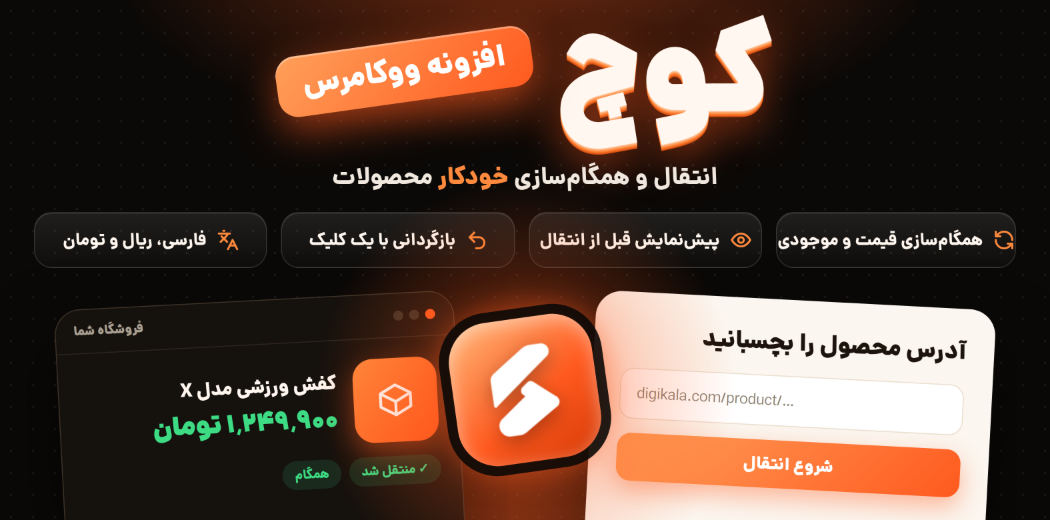
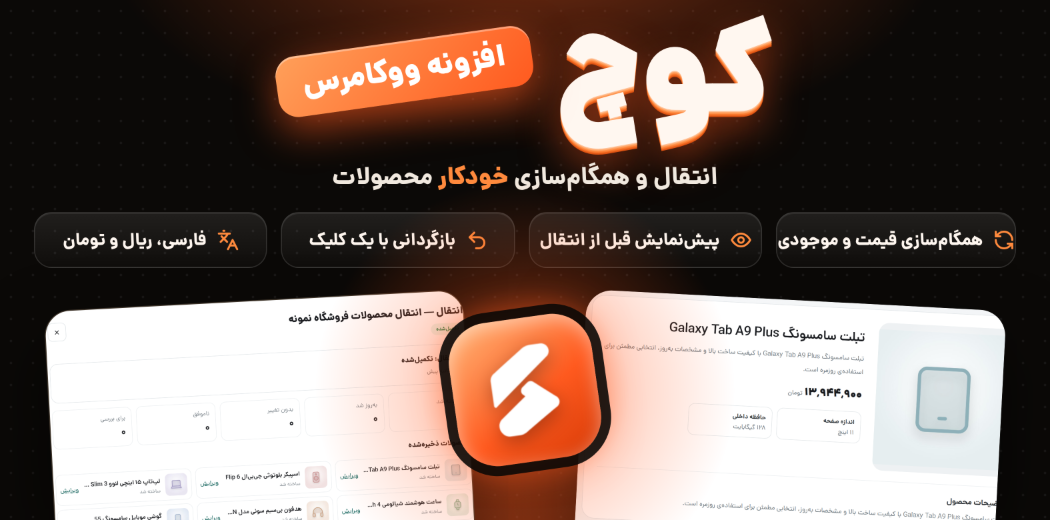
Kooch RTL fixes: infographic and cover built from real plugin screenshots
Claude-Session: https://claude.ai/code/session_01HjGiyHhZHcoV6ExRpRRqKD

diff --git a/kooch-showcase/infographic.html b/kooch-showcase/infographic.html
@@ -1,0 +1,39 @@
+<!doctype html><html lang="fa" dir="rtl"><head><meta charset="utf-8"><title>کوچ | اینفوگرافیک</title><style>
+@font-face{font-family:Dana;src:url(DanaVF.ttf);font-weight:100 1000}
+*{box-sizing:border-box;margin:0;padding:0}
+body{background:#0e0b08;font-family:Dana,Tahoma,sans-serif;color:#f6f1ea}
+.i{width:1em;height:1em;fill:none;stroke:currentColor;stroke-width:2;stroke-linecap:round;stroke-linejoin:round}
+.w{width:960px;background:radial-gradient(700px 400px at 80% 0,rgba(255,90,31,.35),transparent 70%),radial-gradient(rgba(255,255,255,.05) 1.2px,transparent 1.4px) 0 0/24px 24px,#0e0b08;padding:56px 50px 60px}
+.top{text-align:center;margin-bottom:46px}
+.top img{height:72px}
+.top h1{font-size:44px;font-weight:950;margin-top:12px}
+.top h1 b{color:#ff8a3d}
+.top p{font-size:20px;color:#b9ae9f;margin-top:8px}
+.pills{display:flex;justify-content:center;gap:10px;margin-top:20px;flex-wrap:wrap}
+.pills span{border:1px solid rgba(255,138,61,.5);background:rgba(255,90,31,.12);color:#ffd2b3;font-weight:800;font-size:15px;padding:6px 16px;border-radius:99px}
+section{margin-top:44px}
+.hd{display:flex;align-items:center;gap:14px;margin-bottom:16px}
+.n{font-size:15px;font-weight:900;color:#ff8a3d;width:40px}
+.ic{width:50px;height:50px;border-radius:15px;background:linear-gradient(145deg,#ff9a55,#ff5a1f);display:grid;place-items:center;color:#fff;font-size:24px;flex:none;box-shadow:0 8px 24px rgba(255,90,31,.4)}
+h2{font-size:26px;font-weight:900}
+.hd p{font-size:16.5px;color:#b9ae9f;margin-top:3px}
+.shot{width:860px;overflow:hidden;border-radius:18px;border:1px solid #3a3126;box-shadow:0 20px 50px rgba(0,0,0,.5);background:#fff}
+.shot img{display:block}
+.foot{margin-top:50px;text-align:center;color:#8f8476;font-size:15px}
+</style></head><body><svg width="0" height="0" style="position:absolute" aria-hidden="true"><symbol id="i-link" viewBox="0 0 24 24"><path d="M10 13a5 5 0 0 0 7.5.5l3-3a5 5 0 0 0-7-7l-1.7 1.7"/><path d="M14 11a5 5 0 0 0-7.5-.5l-3 3a5 5 0 0 0 7 7l1.7-1.7"/></symbol><symbol id="i-eye" viewBox="0 0 24 24"><path d="M2 12s3.6-7 10-7 10 7 10 7-3.6 7-10 7S2 12 2 12z"/><circle cx="12" cy="12" r="3"/></symbol><symbol id="i-box" viewBox="0 0 24 24"><path d="M21 8 12 3 3 8v8l9 5 9-5z"/><path d="M3 8l9 5 9-5M12 13v8"/></symbol><symbol id="i-globe" viewBox="0 0 24 24"><circle cx="12" cy="12" r="10"/><path d="M2 12h20M12 2a15 15 0 0 1 0 20M12 2a15 15 0 0 0 0 20"/></symbol><symbol id="i-target" viewBox="0 0 24 24"><circle cx="12" cy="12" r="10"/><circle cx="12" cy="12" r="6"/><circle cx="12" cy="12" r="2"/></symbol><symbol id="i-cog" viewBox="0 0 24 24"><circle cx="12" cy="12" r="3"/><path d="M19.4 15a1.7 1.7 0 0 0 .3 1.8l.1.1a2 2 0 1 1-2.8 2.8l-.1-.1a1.7 1.7 0 0 0-1.8-.3 1.7 1.7 0 0 0-1 1.5V21a2 2 0 1 1-4 0v-.1a1.7 1.7 0 0 0-1.1-1.5 1.7 1.7 0 0 0-1.8.3l-.1.1a2 2 0 1 1-2.8-2.8l.1-.1a1.7 1.7 0 0 0 .3-1.8 1.7 1.7 0 0 0-1.5-1H3a2 2 0 1 1 0-4h.1a1.7 1.7 0 0 0 1.5-1.1 1.7 1.7 0 0 0-.3-1.8l-.1-.1a2 2 0 1 1 2.8-2.8l.1.1a1.7 1.7 0 0 0 1.8.3H9a1.7 1.7 0 0 0 1-1.5V3a2 2 0 1 1 4 0v.1a1.7 1.7 0 0 0 1 1.5 1.7 1.7 0 0 0 1.8-.3l.1-.1a2 2 0 1 1 2.8 2.8l-.1.1a1.7 1.7 0 0 0-.3 1.8V9a1.7 1.7 0 0 0 1.5 1H21a2 2 0 1 1 0 4h-.1a1.7 1.7 0 0 0-1.5 1z"/></symbol><symbol id="i-coins" viewBox="0 0 24 24"><circle cx="8" cy="8" r="6"/><path d="M18.1 10.4A6 6 0 1 1 10.4 18.1M7 6h1v4"/></symbol><symbol id="i-shield" viewBox="0 0 24 24"><path d="M12 22s8-4 8-10V5l-8-3-8 3v7c0 6 8 10 8 10z"/><path d="m9 12 2 2 4-4"/></symbol><symbol id="i-refresh" viewBox="0 0 24 24"><path d="M21 12a9 9 0 0 0-15.5-6.3L3 8"/><path d="M3 3v5h5"/><path d="M3 12a9 9 0 0 0 15.5 6.3L21 16"/><path d="M16 16h5v5"/></symbol><symbol id="i-lock" viewBox="0 0 24 24"><rect x="4" y="11" width="16" height="10" rx="2"/><path d="M8 11V7a4 4 0 0 1 8 0v4"/></symbol><symbol id="i-undo" viewBox="0 0 24 24"><path d="M9 14 4 9l5-5"/><path d="M4 9h10a6 6 0 0 1 0 12h-3"/></symbol><symbol id="i-alert" viewBox="0 0 24 24"><path d="M10.3 3.9 1.8 18a2 2 0 0 0 1.7 3h17a2 2 0 0 0 1.7-3L13.7 3.9a2 2 0 0 0-3.4 0z"/><path d="M12 9v4M12 17h.01"/></symbol><symbol id="i-bell" viewBox="0 0 24 24"><path d="M18 8a6 6 0 0 0-12 0c0 7-3 9-3 9h18s-3-2-3-9"/><path d="M13.7 21a2 2 0 0 1-3.4 0"/></symbol><symbol id="i-mail" viewBox="0 0 24 24"><rect x="2" y="4" width="20" height="16" rx="2"/><path d="m22 7-10 6L2 7"/></symbol><symbol id="i-send" viewBox="0 0 24 24"><path d="m22 2-7 20-4-9-9-4z"/><path d="M22 2 11 13"/></symbol><symbol id="i-chat" viewBox="0 0 24 24"><path d="M21 15a2 2 0 0 1-2 2H7l-4 4V5a2 2 0 0 1 2-2h14a2 2 0 0 1 2 2z"/></symbol><symbol id="i-hook" viewBox="0 0 24 24"><circle cx="12" cy="5" r="3"/><path d="M12 8v5a4 4 0 0 0 8 0M20 13h-3"/><circle cx="5" cy="17" r="3"/><path d="M5 14c0-3 3-6 7-6"/></symbol><symbol id="i-spark" viewBox="0 0 24 24"><path d="M12 3l1.9 5.1L19 10l-5.1 1.9L12 17l-1.9-5.1L5 10l5.1-1.9z"/><path d="M19 15l.7 1.8L21.5 17.5l-1.8.7L19 20l-.7-1.8-1.8-.7 1.8-.7z"/></symbol><symbol id="i-check" viewBox="0 0 24 24"><path d="M20 6 9 17l-5-5"/></symbol><symbol id="i-lang" viewBox="0 0 24 24"><path d="m5 8 6 6M4 14l6-6 2-3M2 5h12M7 2h1M22 22l-5-10-5 10M14 18h6"/></symbol></svg>
+<div class="w">
+<div class="top"><img src="kooch-icon.png"><h1><b>کوچ</b> — انتقال و همگامسازی محصولات ووکامرس</h1><p>تصاویر از محیط واقعی افزونه</p>
+<div class="pills"><span>دیجیکالا</span><span>تکنولایف</span><span>ووکامرس</span><span>شاپیفای</span><span>سایتهای اختصاصی</span></div></div>
+<section><div class="hd"><div class="n">۰۱</div><div class="ic"><svg class="i"><use href="#i-refresh"/></svg></div><div><h2>مدیریت همهی انتقالها در یک صفحه</h2><p>وضعیت هر کوچ، تعداد محصولات و آخرین همگامسازی را یکجا ببینید.</p></div></div>
+<div class="shot" style="height:605px"><img src="screenshots/m_manage.png" style="width:860px;margin-top:-0px"></div></section><section><div class="hd"><div class="n">۰۲</div><div class="ic"><svg class="i"><use href="#i-box"/></svg></div><div><h2>انتقال تکی یا دستهای</h2><p>یک محصول، یک دستهبندی یا کل فروشگاه را با یک آدرس منتقل کنید.</p></div></div>
+<div class="shot" style="height:605px"><img src="screenshots/s1_type.png" style="width:860px;margin-top:-0px"></div></section><section><div class="hd"><div class="n">۰۳</div><div class="ic"><svg class="i"><use href="#i-link"/></svg></div><div><h2>تشخیص خودکار فروشگاه مبدأ</h2><p>آدرس را وارد کنید؛ پلتفرم، ارز و ساختار صفحه خودکار شناسایی میشود.</p></div></div>
+<div class="shot" style="height:487px"><img src="screenshots/s2_source.png" style="width:860px;margin-top:-0px"></div></section><section><div class="hd"><div class="n">۰۴</div><div class="ic"><svg class="i"><use href="#i-target"/></svg></div><div><h2>خواندن خودکار جزئیات محصول</h2><p>عنوان، تصاویر، قیمت، ویژگیها و دستهبندی بدون تنظیم دستی خوانده میشوند.</p></div></div>
+<div class="shot" style="height:470px"><img src="screenshots/s3_fields.png" style="width:860px;margin-top:-0px"></div></section><section><div class="hd"><div class="n">۰۵</div><div class="ic"><svg class="i"><use href="#i-coins"/></svg></div><div><h2>قیمتگذاری هوشمند</h2><p>تبدیل ریال به تومان، درصد سود، مبلغ ثابت و قیمت جذاب (…۹۰۰).</p></div></div>
+<div class="shot" style="height:406px"><img src="screenshots/s5_settings.png" style="width:860px;margin-top:-611px"></div></section><section><div class="hd"><div class="n">۰۶</div><div class="ic"><svg class="i"><use href="#i-eye"/></svg></div><div><h2>پیشنمایش قبل از انتقال</h2><p>محصول را دقیقاً همانطور که در فروشگاه ذخیره میشود ببینید.</p></div></div>
+<div class="shot" style="height:487px"><img src="screenshots/s6_preview.png" style="width:860px;margin-top:-0px"></div></section><section><div class="hd"><div class="n">۰۷</div><div class="ic"><svg class="i"><use href="#i-undo"/></svg></div><div><h2>گزارش اجرا و بازگردانی</h2><p>نتیجهی هر انتقال را ببینید و در صورت نیاز با یک کلیک برگردانید.</p></div></div>
+<div class="shot" style="height:438px"><img src="screenshots/s7_run.png" style="width:860px;margin-top:-83px"></div></section><section><div class="hd"><div class="n">۰۸</div><div class="ic"><svg class="i"><use href="#i-spark"/></svg></div><div><h2>هوش مصنوعی اختیاری</h2><p>بهینهسازی عنوان و توضیحات، تولید متن سئو و ترجمهی خودکار.</p></div></div>
+<div class="shot" style="height:554px"><img src="screenshots/s4_ai.png" style="width:860px;margin-top:-0px"></div></section><section><div class="hd"><div class="n">۰۹</div><div class="ic"><svg class="i"><use href="#i-bell"/></svg></div><div><h2>اطلاعرسانی</h2><p>ایمیل، تلگرام، بله و پیامک برای رویدادهای مهم.</p></div></div>
+<div class="shot" style="height:578px"><img src="screenshots/m_notify.png" style="width:860px;margin-top:-128px"></div></section><section><div class="hd"><div class="n">۱۰</div><div class="ic"><svg class="i"><use href="#i-send"/></svg></div><div><h2>بارنامه؛ انتقال بین سایتها</h2><p>محصولات، نوشتهها، سفارشها و کاربران را بین دو سایت جابهجا کنید.</p></div></div>
+<div class="shot" style="height:666px"><img src="screenshots/m_cargo.png" style="width:860px;margin-top:-0px"></div></section>
+<div class="foot">رابط کاملاً فارسی و راستچین · تاریخ شمسی · ریال و تومان</div>
+</div></body></html>

diff --git a/kooch-showcase/thumbnail.html b/kooch-showcase/thumbnail.html
@@ -18,8 +18,8 @@ h1{font-size:112px;font-weight:950;line-height:1.1;letter-spacing:-2px;color:var
 .pill{flex:1;display:flex;align-items:center;justify-content:center;gap:10px;height:56px;border-radius:18px;background:linear-gradient(180deg,rgba(255,255,255,.09),rgba(255,255,255,.025));border:1px solid rgba(255,255,255,.13);font-size:17px;font-weight:800;white-space:nowrap;box-shadow:inset 0 1px 0 rgba(255,255,255,.08)}
 .pill .i{color:var(--o2);width:22px;height:22px}
 .p{position:absolute;top:300px;height:260px;border-radius:26px;overflow:hidden;box-shadow:0 30px 70px rgba(0,0,0,.7)}
-.dark{left:60px;width:400px;background:#15110d;border:1px solid #3d3328;transform:rotate(-3deg)}
-.light{right:60px;width:400px;background:#fbf6ef;color:#1b130c;transform:rotate(3deg);padding:26px 28px}
+.dark{left:50px;width:420px;border:1px solid #3d3328;transform:rotate(-3deg)}
+.light{right:50px;width:420px;transform:rotate(3deg)}
 .bar{display:flex;gap:6px;align-items:center;padding:12px 18px;border-bottom:1px solid #2e261d;font-size:13px;color:var(--mu);font-weight:700}
 .bar i{width:10px;height:10px;border-radius:50%;background:#3a3126}.bar i:first-child{background:var(--o)}.bar b{margin-inline-start:auto}
 .prod{display:flex;gap:16px;align-items:center;padding:20px 20px 14px}
@@ -46,9 +46,7 @@ h1{font-size:112px;font-weight:950;line-height:1.1;letter-spacing:-2px;color:var
   <div class="pill"><svg class="i"><use href="#i-undo"/></svg>بازگردانی با یک کلیک</div>
   <div class="pill"><svg class="i"><use href="#i-lang"/></svg>فارسی، ریال و تومان</div>
  </div>
- <div class="p light"><h3>آدرس محصول را بچسبانید</h3><div class="in">digikala.com/product/…</div><div class="cta">شروع انتقال</div></div>
- <div class="p dark"><div class="bar"><i></i><i></i><i></i><b>فروشگاه شما</b></div>
-  <div class="prod"><div class="im"><svg class="i"><use href="#i-box"/></svg></div><div><div class="nm">کفش ورزشی مدل X</div><div class="pr">۱٬۲۴۹٬۹۰۰ تومان</div></div></div>
-  <div class="ok"><span>✓ منتقل شد</span><span>همگام</span></div></div>
+ <div class="p light" style="background:#fff url(screenshots/s6_preview.png) no-repeat;background-size:664.1px auto;background-position:-195.9px -140.3px"></div>
+ <div class="p dark" style="background:#fff url(screenshots/s7_run.png) no-repeat;background-size:640.0px auto;background-position:-110.0px -62.5px"></div>
  <div class="halo"></div><div class="core"><img src="kooch-icon.png" alt=""></div>
 </div></body></html>
